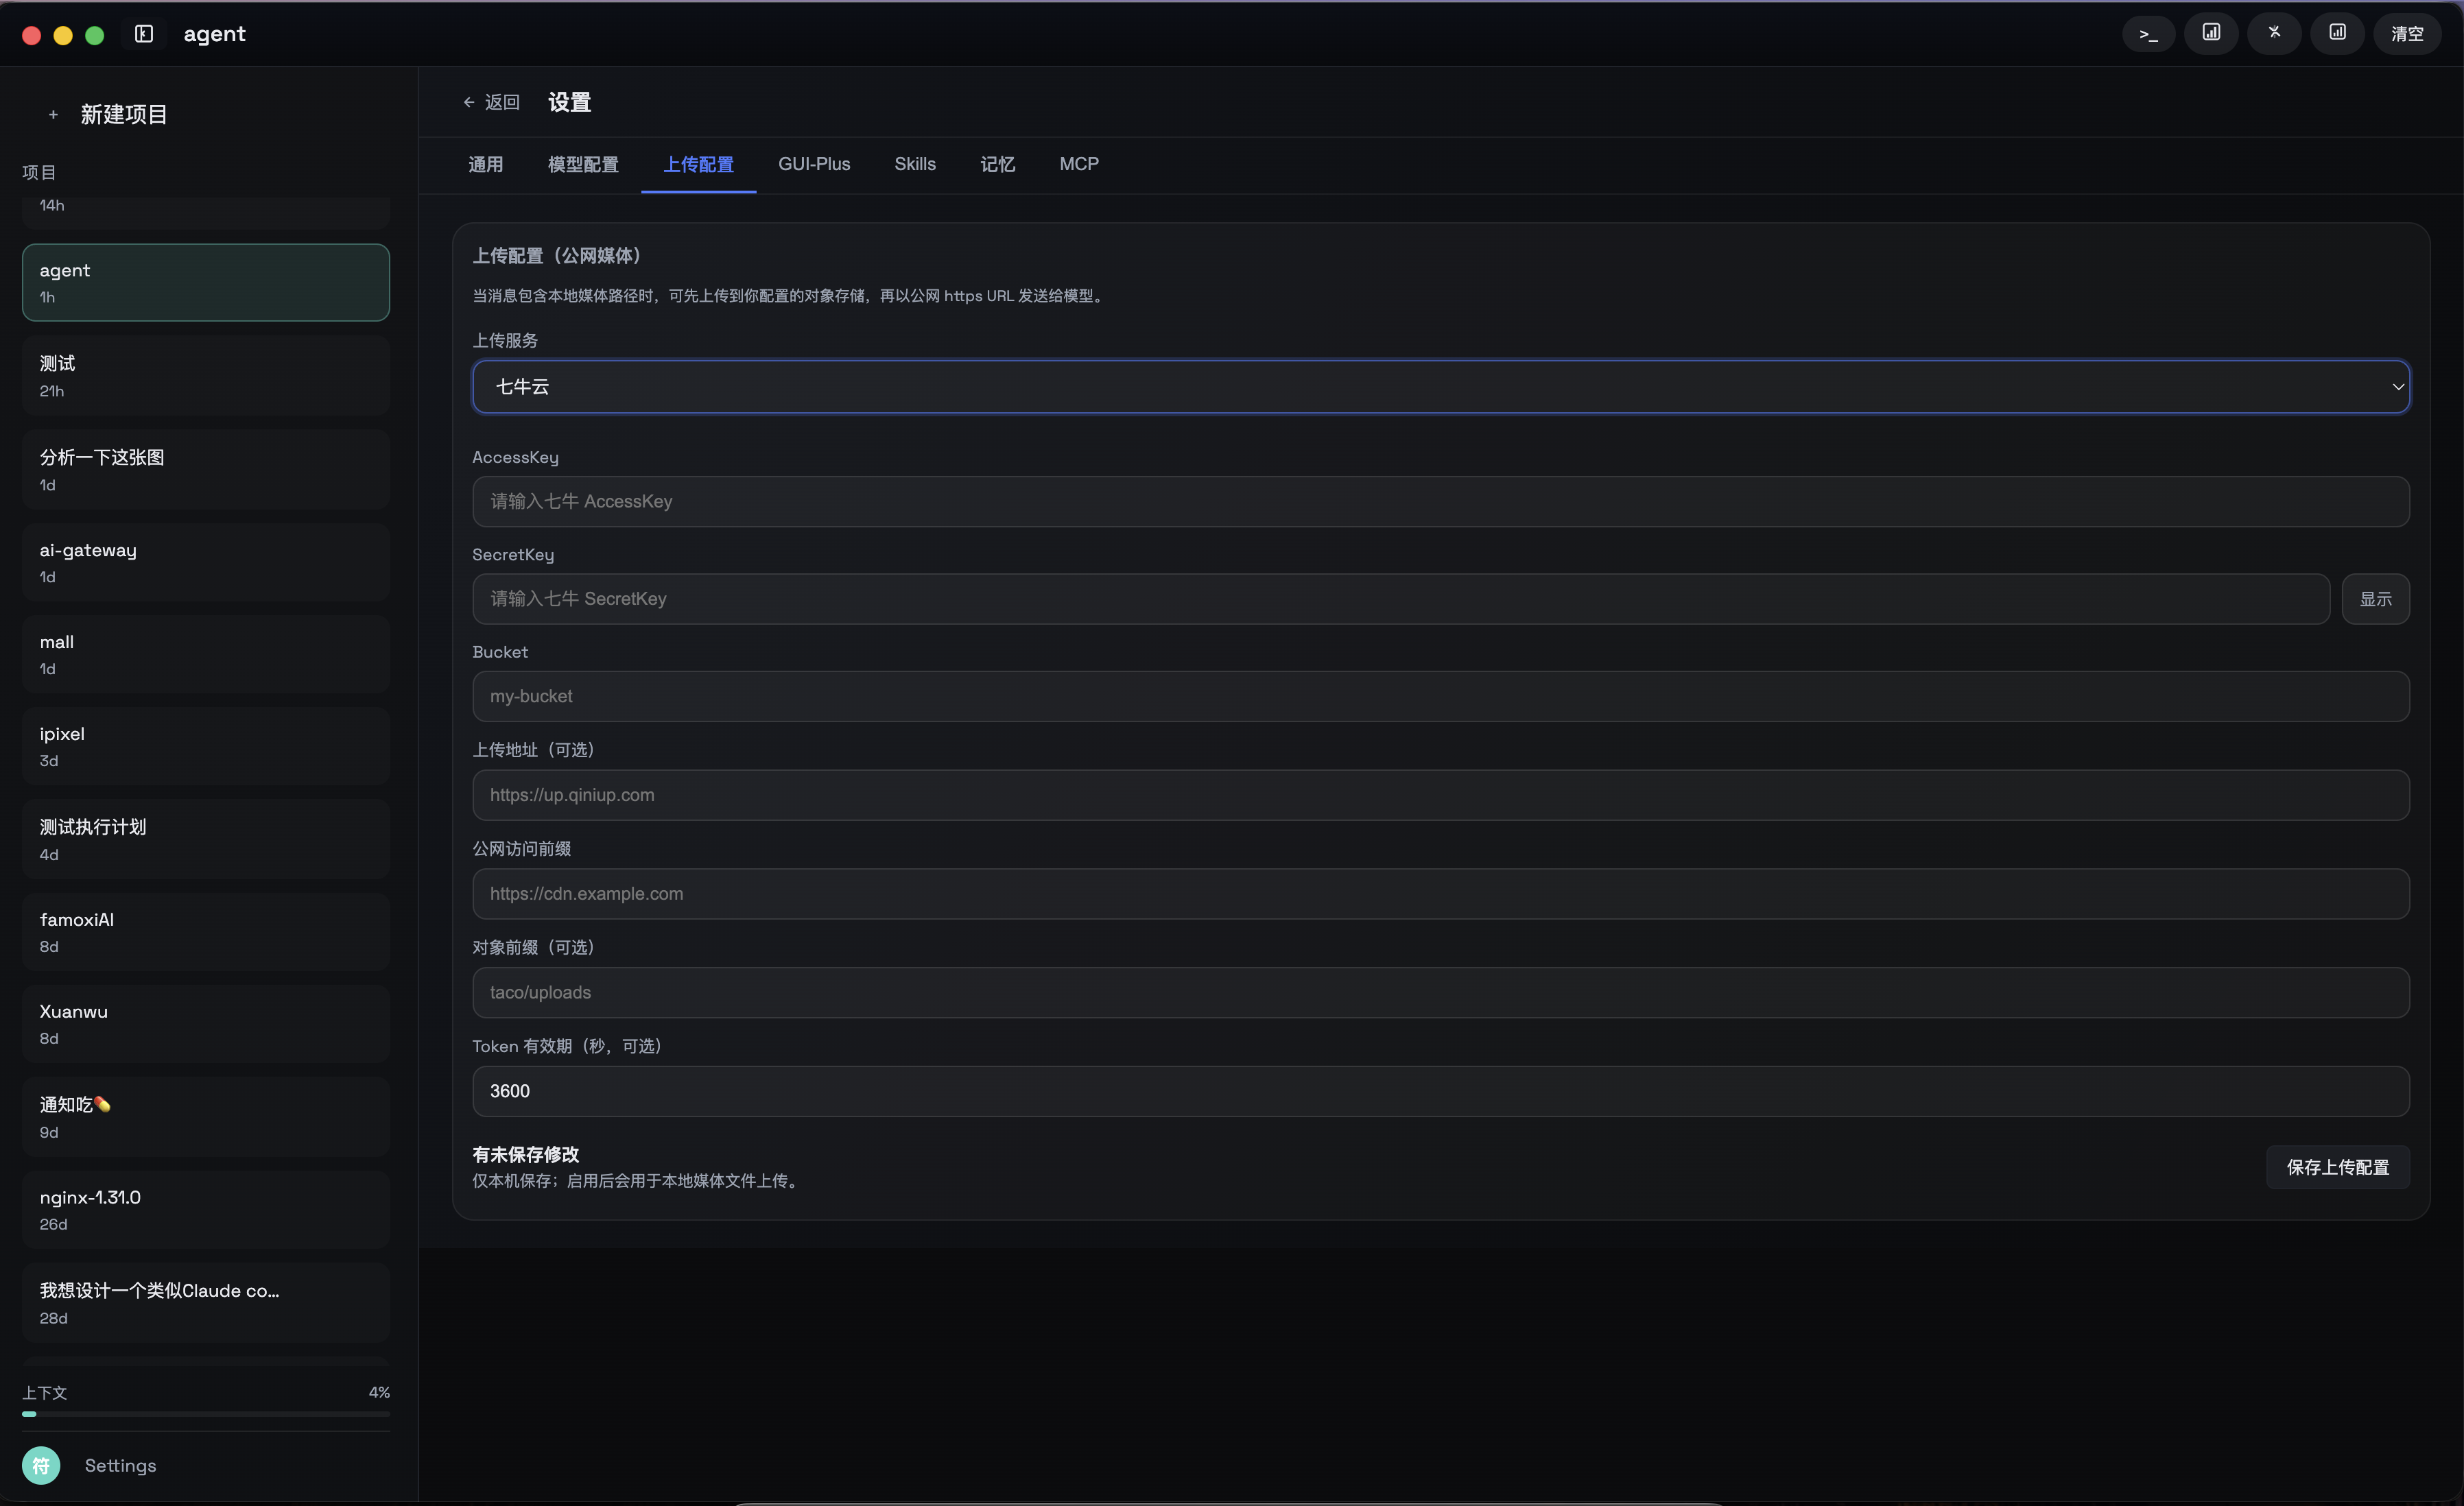
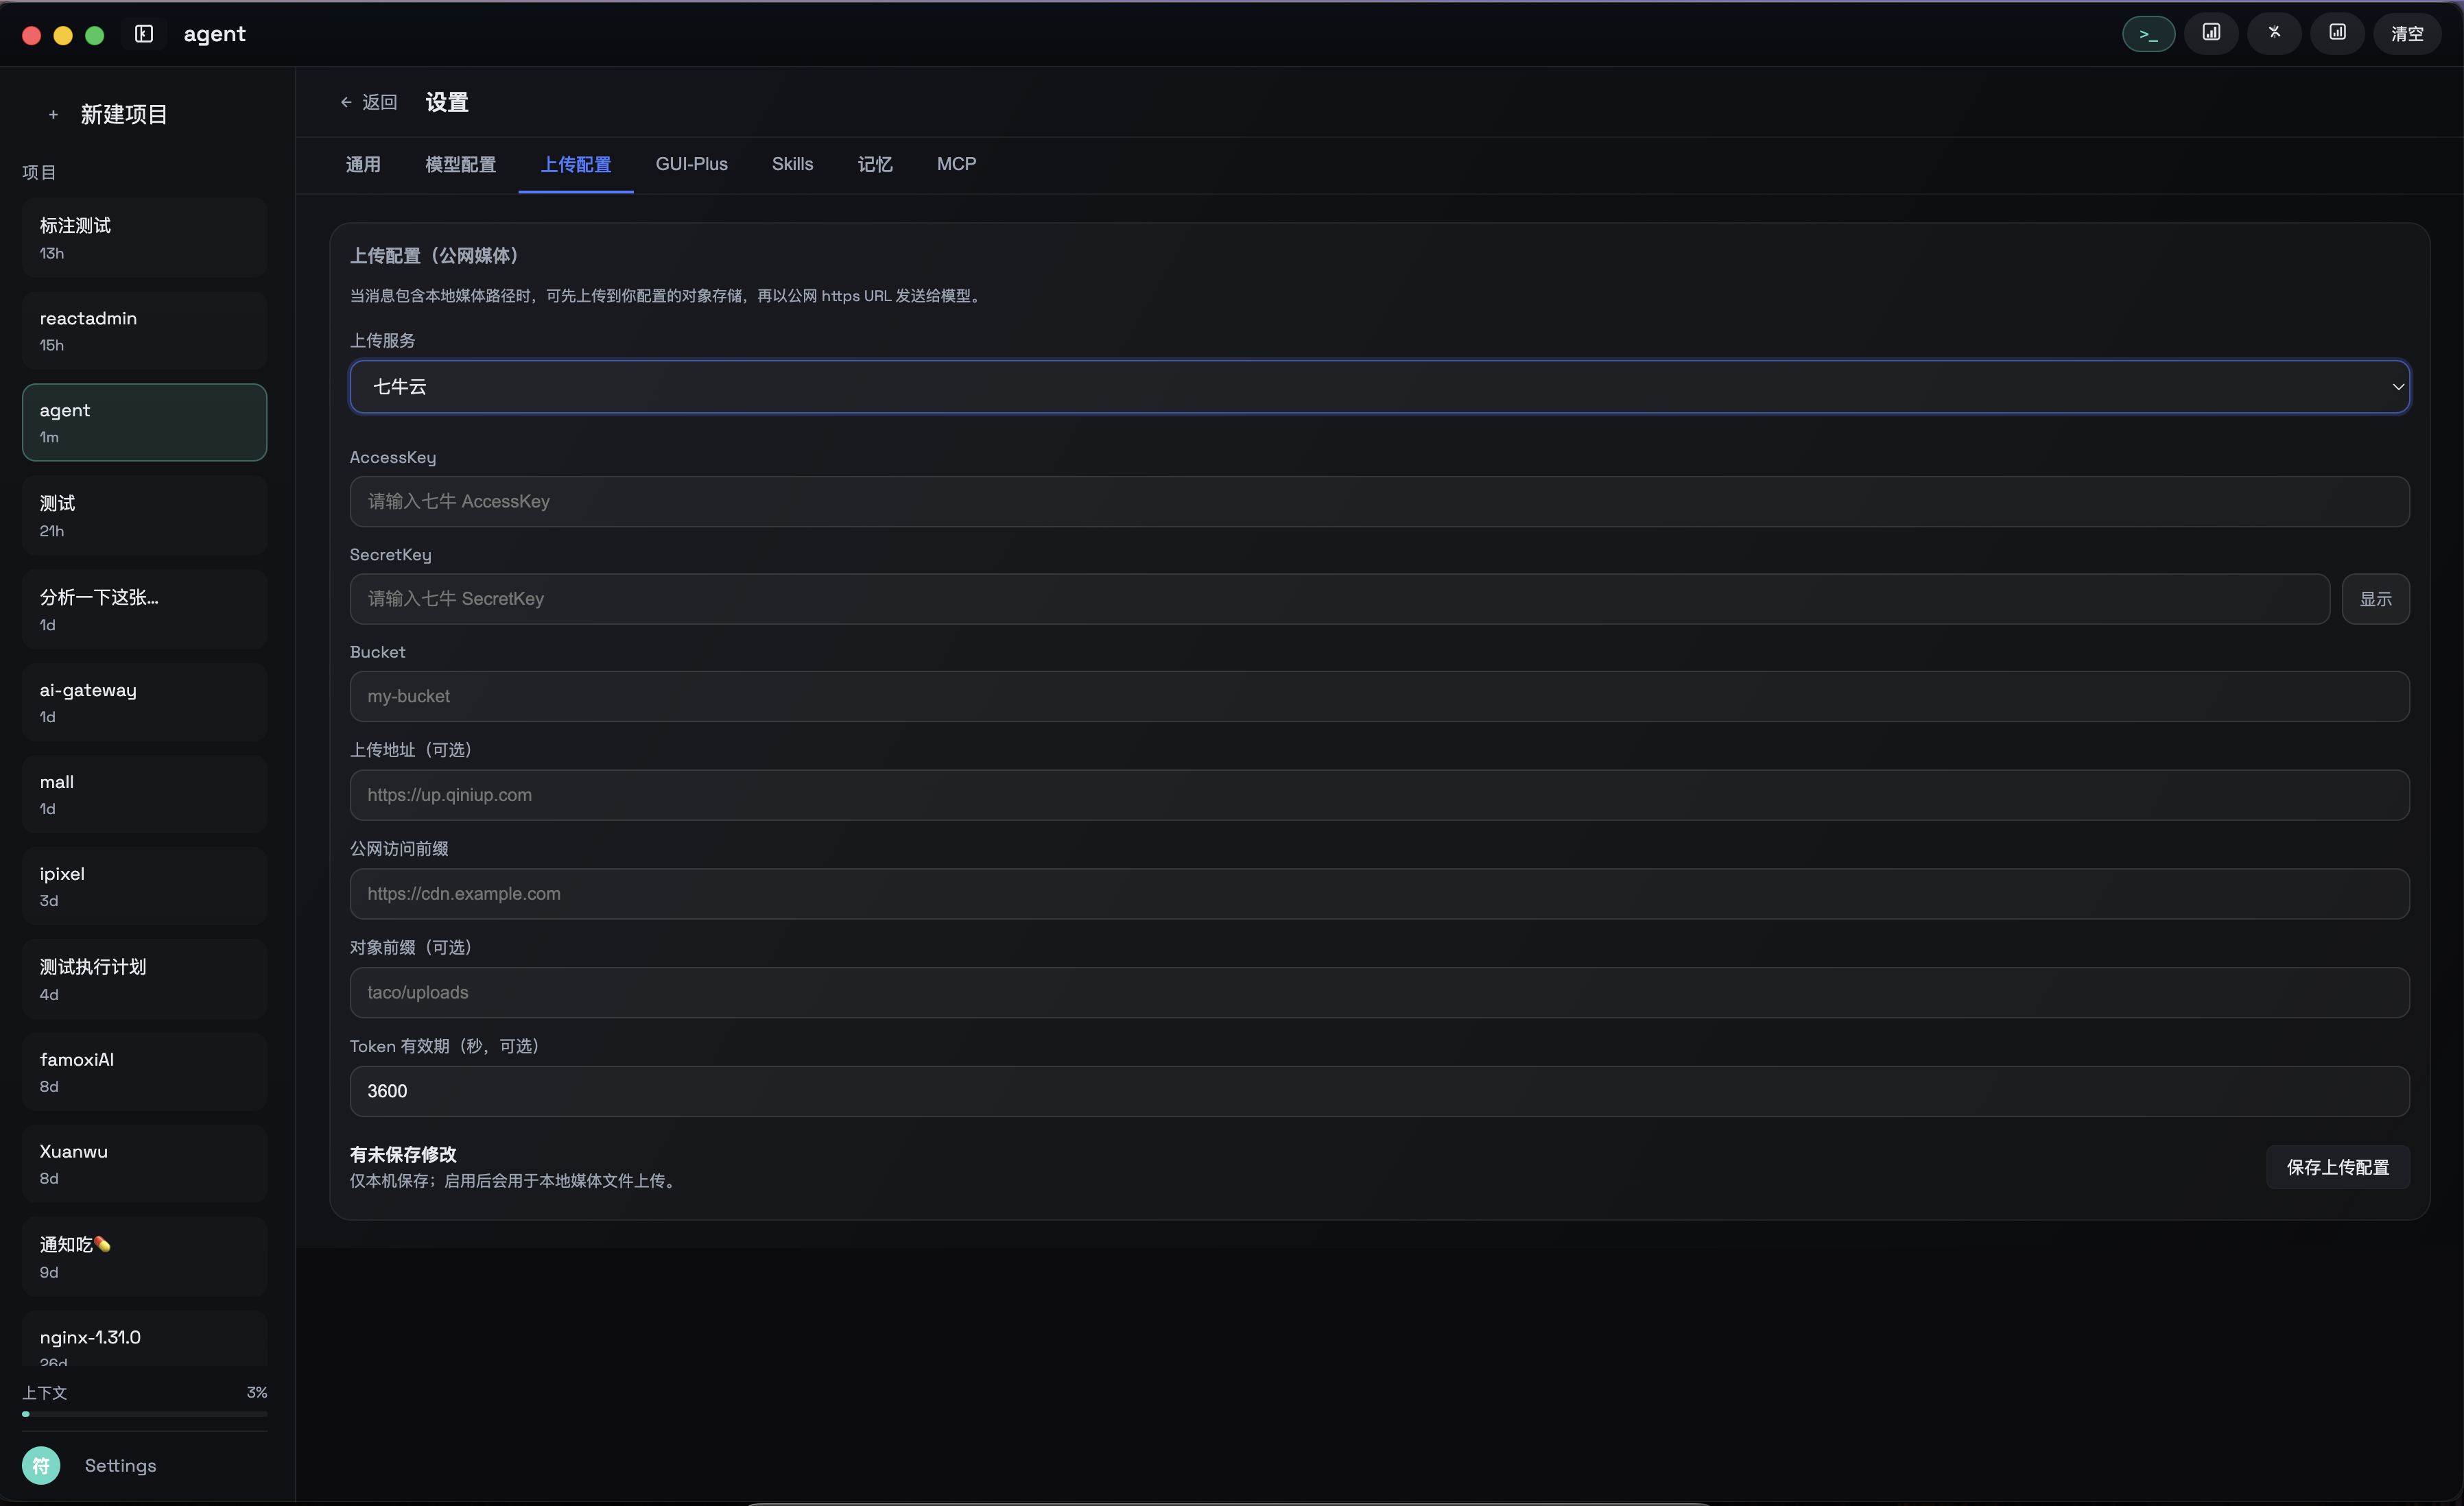
docs: 更新中英文README，新增4.png和5.png截图，修复GitHub Actions工作流

diff --git a/README_EN.md b/README_EN.md
@@ -1,0 +1,209 @@
+# Taco AI
+
+**Taco AI** is a desktop-based intelligent assistant that shares your computer environment. It can read code, execute commands, manipulate files, control browsers, and help you complete development, analysis, debugging, and various other tasks.
+
+---
+
+## Core Capabilities
+
+| Capability | Description |
+|------------|-------------|
+| Code Reading & Editing | Read project files, edit code, refactor modules, with syntax highlighting for 18+ languages |
+| Command Execution | Run build, test, install, Git operations and other commands in the system shell |
+| File Management | List directory structure, search files, create/delete/move files |
+| Browser Automation | Control external browsers for page navigation, clicking, form filling, and content extraction |
+| Image Understanding | Upload screenshots or images for visual analysis and information extraction by LLMs |
+| Terminal Integration | Built-in xterm terminal with full command-line interaction support |
+| Code Editor | Built-in Monaco Editor with syntax highlighting and diff comparison |
+| Plan Management | Automatic multi-step task planning, proposal confirmation, and progress tracking |
+| Context Memory | Cross-session memory recall and replay for long conversation continuity |
+| Cross-device Sync | Real-time desktop state synchronization to mobile app via WebSocket bridge |
+
+---
+
+## Multi-Model Support
+
+Taco AI integrates with multiple LLM providers, switchable based on task requirements:
+
+- DeepSeek
+- Alibaba Qwen
+- MiniMax
+- Zhipu AI (GLM)
+- More models extensible via AI Gateway
+
+---
+
+## Screenshots
+
+### Conversation & Analysis
+
+<p align="center">
+  <img src="1.png" alt="Conversation & Analysis UI" width="800" />
+</p>
+
+The main AI conversation interface demonstrating multimodal analysis capabilities. A user uploads a blood biochemistry report photo; the AI performs OCR to extract data, organizes it into a structured Markdown table, and provides abnormal indicator interpretation with obstetric context — e.g., GGT 167.5 (≈3× upper limit) suggesting risk of intrahepatic cholestasis of pregnancy (ICP), direct bilirubin 14.8 elevated, etc. An original image thumbnail floats in the upper-right corner for convenient reference.
+
+Dark mode three-column layout:
+
+- **Left Sidebar** — "New Project" button; historical conversation list (with timestamps like `11h`, `agent`, `测试`, `分析一下这张图`); context usage progress bar, language selector (Chinese), and settings entry at the bottom
+- **Central Main Area** — Structured AI responses: abnormal indicator summary table + in-depth pathological analysis; top toolbar (code view, table view, split comparison, clear)
+- **Bottom Input Area** — Message input box (supports pasting images / attachments); current model `qwen3.7-plus`; blue circular send button
+
+### Task Execution & Terminal
+
+<p align="center">
+  <img src="4.png" alt="Task Execution & Terminal" width="800" />
+</p>
+
+The AI workbench task execution interface, demonstrating a complete automated workflow. The AI reads the Chinese README and generates an English version `README_EN.md` in 0h0m43s, with each operation step (viewing files, creating files, etc.) recorded with its path and status. Results are presented in a table comparing key sections (Core Capabilities, Multi-Model Support, Tech Stack, etc.) between the two versions. After completing the task, the AI proactively asks whether to push to GitHub and Gitee.
+
+The embedded terminal below shows real-time Git push logs (to `gitee.com:fushengfu/tacoai.git` on the `main` branch). The bottom model selector has been switched to `deepseek-v4-pro`, and the status bar shows language selection, current workspace (`taco`), and version `v0.3.10`.
+
+### Model Configuration
+
+<p align="center">
+  <img src="2.png" alt="Model Configuration UI" width="800" />
+</p>
+
+The model configuration page in the settings panel, supporting multi-model management and custom parameters. The left model list includes `mimo-v2.5-pro` (default), `kimi-k2.6`, `MiniMax-M2.7-highspeed`, `deepseek-v4-pro`, `qwen3.6-plus` and other integrated models, with each entry showing provider name and API Key configuration status. The right detail panel allows item-by-item configuration of:
+
+- **Provider / Base URL / API Key** — Provider and endpoint configuration
+- **Model ID** — Model identifier
+- **Context Length** — Supports up to 200,000 tokens ultra-long context
+- **Temperature** — Sampling temperature; set to 0 for deterministic output
+- **Advanced Toggles** — Visual understanding, reasoning_content field control
+
+The top "Add Model" button supports integrating new models, and the upper-right toolbar provides quick access to terminal, statistics panel, and more.
+
+### Upload Configuration
+
+<p align="center">
+  <img src="3.png" alt="Upload Configuration UI" width="800" />
+</p>
+
+The upload configuration page in the settings panel, used to upload local media files to object storage and generate HTTPS URLs for AI model access. Qiniu Cloud is currently selected, with configurable options including:
+
+- **AccessKey / SecretKey** — Cloud storage authentication credentials (SecretKey supports show/hide toggle)
+- **Bucket** — Storage bucket name
+- **Upload Endpoint** — Optional custom upload endpoint
+- **Public Access Prefix** — CDN or access domain name
+- **Object Prefix / Token Expiry** — Directory organization and credential expiration time (default 3600s)
+
+A "Unsaved changes, saved locally only" notice appears at the bottom. Once saved, images can be pasted or selected for upload during conversations.
+
+### Memory Management
+
+<p align="center">
+  <img src="5.png" alt="Memory Management UI" width="800" />
+</p>
+
+The memory management page in the settings panel, managing the AI's long-term and short-term project knowledge. Storage engine is SQLite, database size 239.1 MB, with statistics overview: 3 manual memories, 134 active / 0 archived automatic memories, 251 soft-deleted, last updated June 2026.
+
+Memory entries are divided into two categories:
+
+- **Manual Memories** — Core knowledge explicitly saved by the user or AI (e.g., password encryption rules SHA-256 + bcrypt, desktop shared module architecture refactoring progress, LLM request user_id field injection design), each with category tags and expand button
+- **Automatic Memories** — Task summaries automatically extracted by the system from conversations (e.g., "Added English README" completion summary), with detail view support
+
+The top "+ Add Memory" button allows manual addition of project knowledge.
+
+---
+
+## Download & Install
+
+No need to clone the source code — download the installer for your platform directly.
+
+| Platform | Download Link | Installation |
+|----------|---------------|--------------|
+| **macOS** (Apple Silicon) | [Taco AI-0.3.10-arm64.dmg](https://store.huiyuanjia.net/Taco%20AI-0.3.10-arm64.dmg) | Double-click the `.dmg`, then drag into the `Applications` folder |
+| **Windows** (x64) | [Taco AI Setup 0.3.10.exe](https://store.huiyuanjia.net/Taco%20AI%20Setup%200.3.10.exe) | Double-click the `.exe` and follow the installation wizard |
+
+Current version: **v0.3.10**
+
+> For building from source, see [Quick Start](#quick-start) below.
+
+---
+
+## Tech Stack
+
+### Desktop
+- **Framework**: Electron 40 + React 18 + TypeScript
+- **Build**: Vite 5 + esbuild
+- **Editor**: Monaco Editor
+- **Terminal**: xterm.js + node-pty
+- **GUI Automation**: @nut-tree-fork/nut-js
+- **Markdown**: react-markdown + remark-gfm
+- **Code Highlighting**: highlight.js
+
+### AI Gateway
+- **Backend**: Go 1.22 + Gin + GORM + MySQL 8.4
+- **Frontend Admin**: React 19 + Ant Design 5 + Vite
+- **Authentication**: JWT
+
+---
+
+## Quick Start
+
+### Prerequisites
+
+- Node.js >= 18
+- macOS / Windows / Linux
+
+### Install & Run
+
+```bash
+# Clone the repository
+git clone <repository-url>
+cd taco/desktop
+
+# Install dependencies
+npm install
+
+# Start in development mode (with hot reload)
+npm run dev
+
+# Build for distribution
+npm run dist
+```
+
+### AI Gateway (Optional)
+
+To set up a self-hosted AI proxy service, refer to [ai-gateway/README.md](ai-gateway/README.md).
+
+---
+
+## Project Structure
+
+```
+taco/
+├── desktop/                    # Electron desktop application
+│   ├── src/
+│   │   ├── main/               # Main process (Node.js)
+│   │   │   ├── agent/          # AI agent core
+│   │   │   ├── ai/             # LLM client
+│   │   │   ├── automation/     # Browser/desktop automation
+│   │   │   ├── bridge/         # Cross-device sync bridge
+│   │   │   ├── infrastructure/ # Infrastructure (logger, terminal, auth, etc.)
+│   │   │   ├── ipc/            # IPC communication handlers
+│   │   │   ├── services/       # Business services (agent loop, memory, tools, etc.)
+│   │   │   ├── tools/          # Tool definitions and execution
+│   │   │   └── window/         # Window management and tray
+│   │   ├── preload/            # Preload scripts
+│   │   └── renderer/           # Renderer process (React UI)
+│   │       ├── views/          # View components
+│   │       ├── hooks/          # React Hooks
+│   │       ├── styles/         # Stylesheets
+│   │       └── lib/            # Utility libraries
+│   ├── build/                  # App icon resources
+│   └── scripts/                # Build scripts
+├── ai-gateway/                 # AI proxy gateway
+│   ├── backend/                # Go backend service
+│   ├── admin/                  # React admin panel
+│   └── docs/                   # API documentation
+└── 1.png 2.png 3.png 4.png 5.png  # App screenshots
+```
+
+---
+
+## Version
+
+Current version: **v0.3.10**